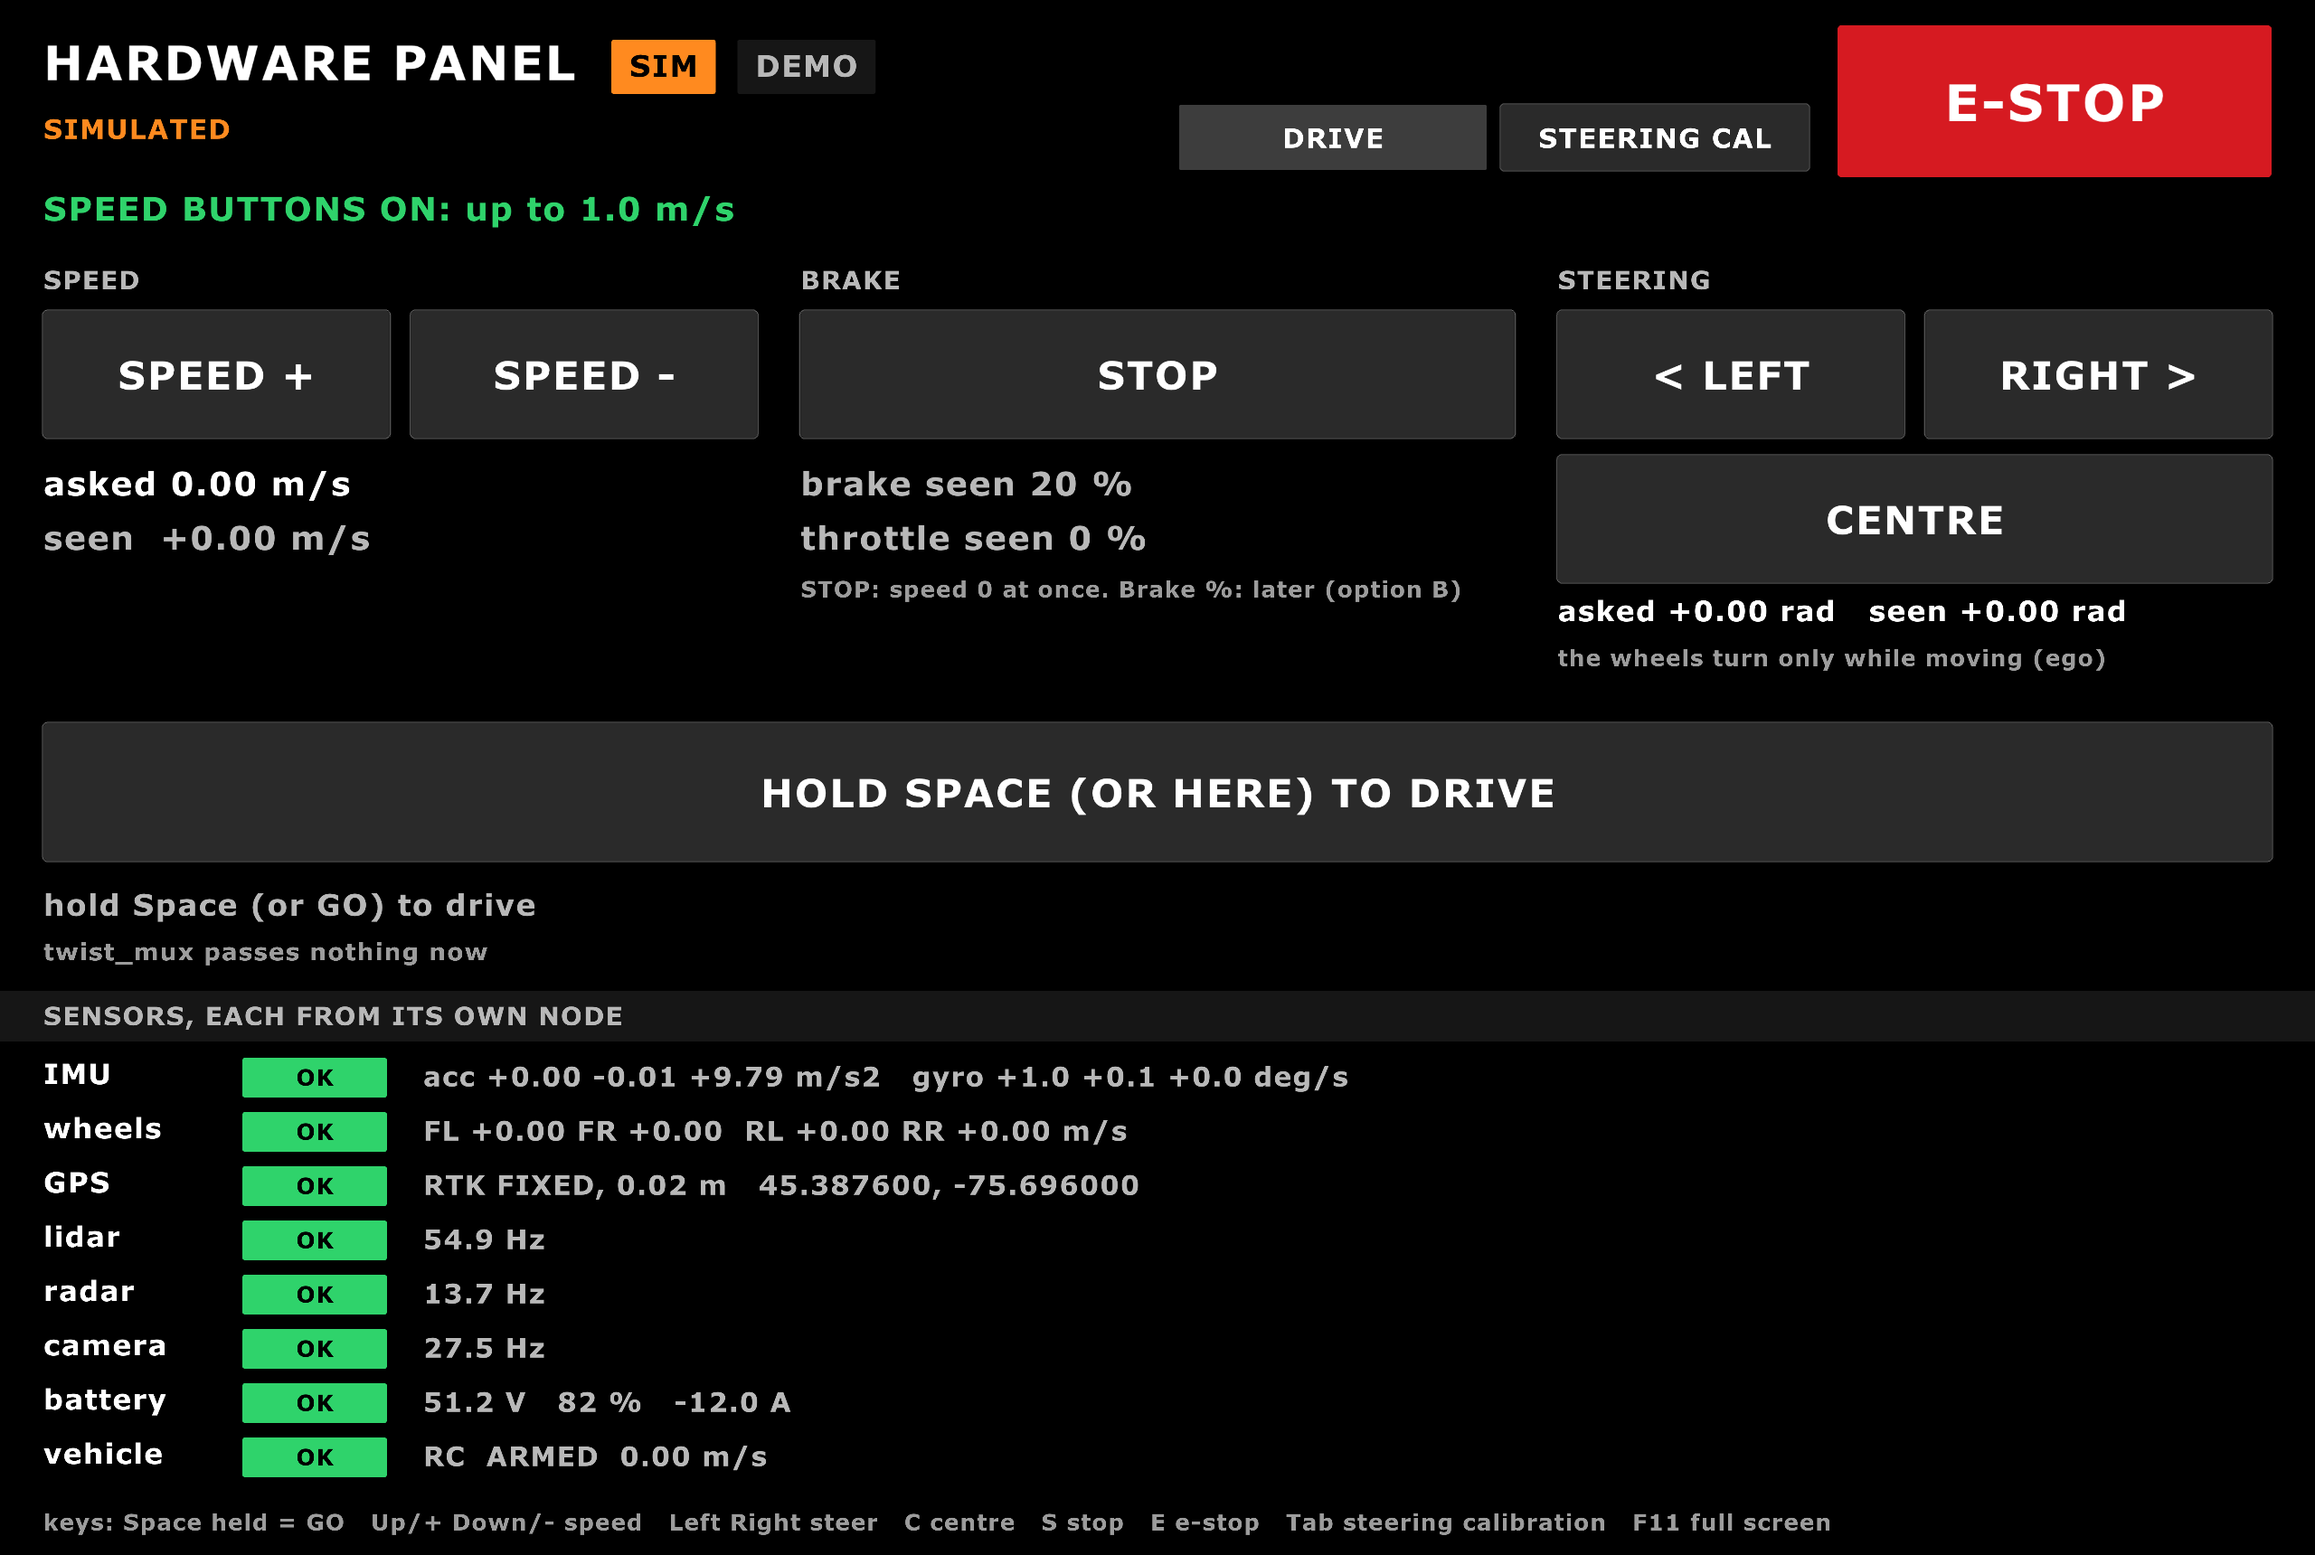
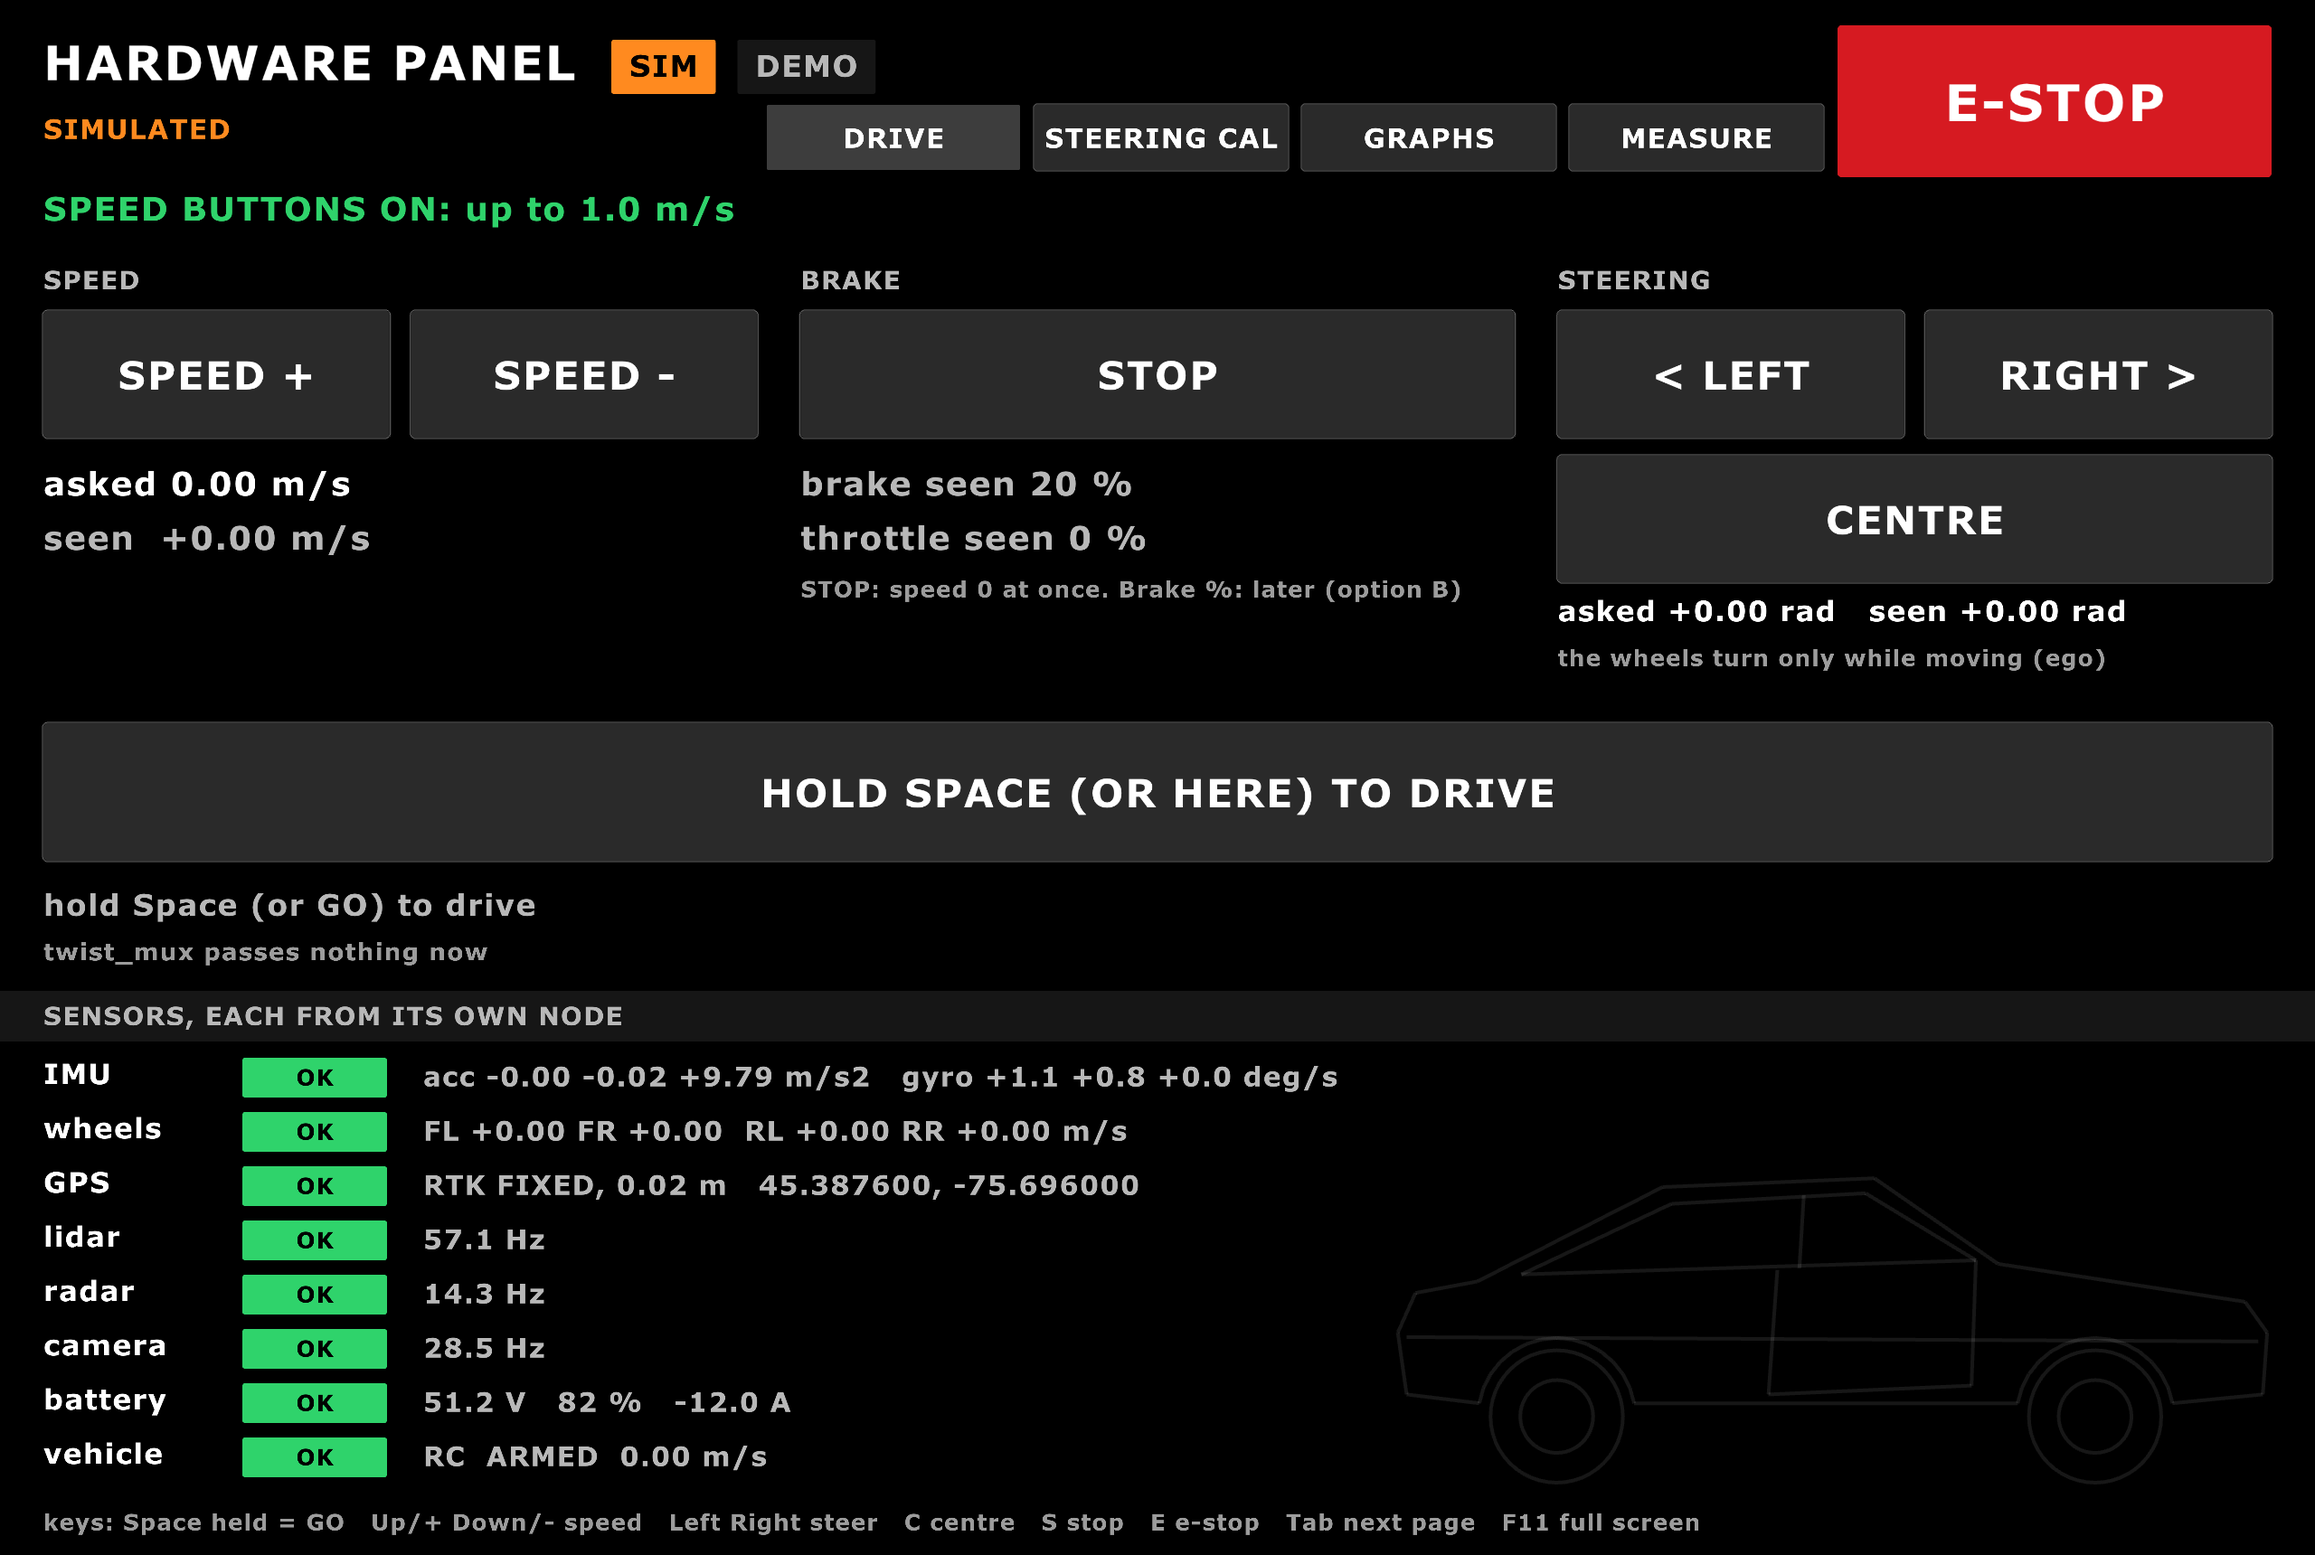
TODO 98: the four screens' Initial D pictures again, each with the faint car; the hardware panel's added

diff --git a/docs/hud.md b/docs/hud.md
@@ -560,6 +560,7 @@ debug screen and the hardware panel.
 | HUD | ![Before](img/hud-before-theme.png) | ![Mocha](img/hud-raylib.png) | ![Initial D](img/hud-initial-d.png) |
 | Map | ![Before](img/map-before-theme.png) | ![Mocha](img/map-streets-demo.png) | ![Initial D](img/map-initial-d.png) |
 | Debug screen | ![Before](img/debug-hud-before-theme.png) | ![Mocha](img/debug-hud-seeing.png) | ![Initial D](img/debug-hud-initial-d.png) |
+| Hardware panel | | | ![Initial D](img/hw-panel-initial-d.png) |
 | Hardware panel | ![Before](img/hw-panel-before-theme.png) | ![Mocha](img/hw-panel-demo.png) | ![Initial D](img/hw-panel-initial-d.png) |
 
 ### The themes
@@ -608,7 +609,7 @@ Only the localizers keep Catppuccin's colours (blue, green, orange, purple, yell
 a picture means the same in every theme. Corners come from `Style::corner`: soft in the
 glass themes, under a third as round in Initial D.
 
-The pictures (2 Nov, Ben's Mac, pretend data): `pixi run hud --demo --screenshot FILE`;
+The pictures (2 Nov; the Initial D ones again 15 Nov, with the faint car on all four, and the hardware panel's added; Ben's Mac, pretend data): `pixi run hud --demo --screenshot FILE`;
 `pixi run map --demo --zoom 2.5 --screenshot FILE`; `pixi run debug-hud --demo
 --screenshot FILE --after 8`; `pixi run hw-panel --demo --screenshot FILE --after 12`.
 

diff --git a/TODO.md b/TODO.md
@@ -123,7 +123,7 @@ history: [todo-done](docs/history/todo-done.md#the-old-lists-as-they-were-on-15-
 |---|---|---|
 | 132 | **The lag-aware MPC** (`tracker:=mpc_lag`): keep off obstacles (costmap cost in the QP); move to Rust before the car (near 50 ms a tick on the Orin, estimated) | 🟡 built and scored |
 | 114 | **The developer window**: the algorithm list with SWAP, cancel a goal, try a slower laptop | 🔧 |
-| 98 | **The faint car behind every screen**: drawn on all four; the four screenshots are left | 🔧 |
+| 98 | **The faint car behind every screen**: drawn on all four; the four screenshots are left | ✅ 15 Nov: the four Initial D pictures taken again from `--demo` (`docs/hud.md`, the themes table; the hardware panel's added), the faint car on each |
 | 120 | **The campus map**: fit a real drive to it, the GPS offset, a person approves map changes | 🟡 |
 | 93 | **The cubes let the car into a post once** (1 of 3 runs, 3 Nov): run `sim-check --lidar-obstacle --voxels` again on today's stack | ⬜ before voxels near the car |
 | 94 | **Drive-to-point stops 0.61 m past B** by the car's own EKF, once a run (limit 0.5 m) | ⬜ |
